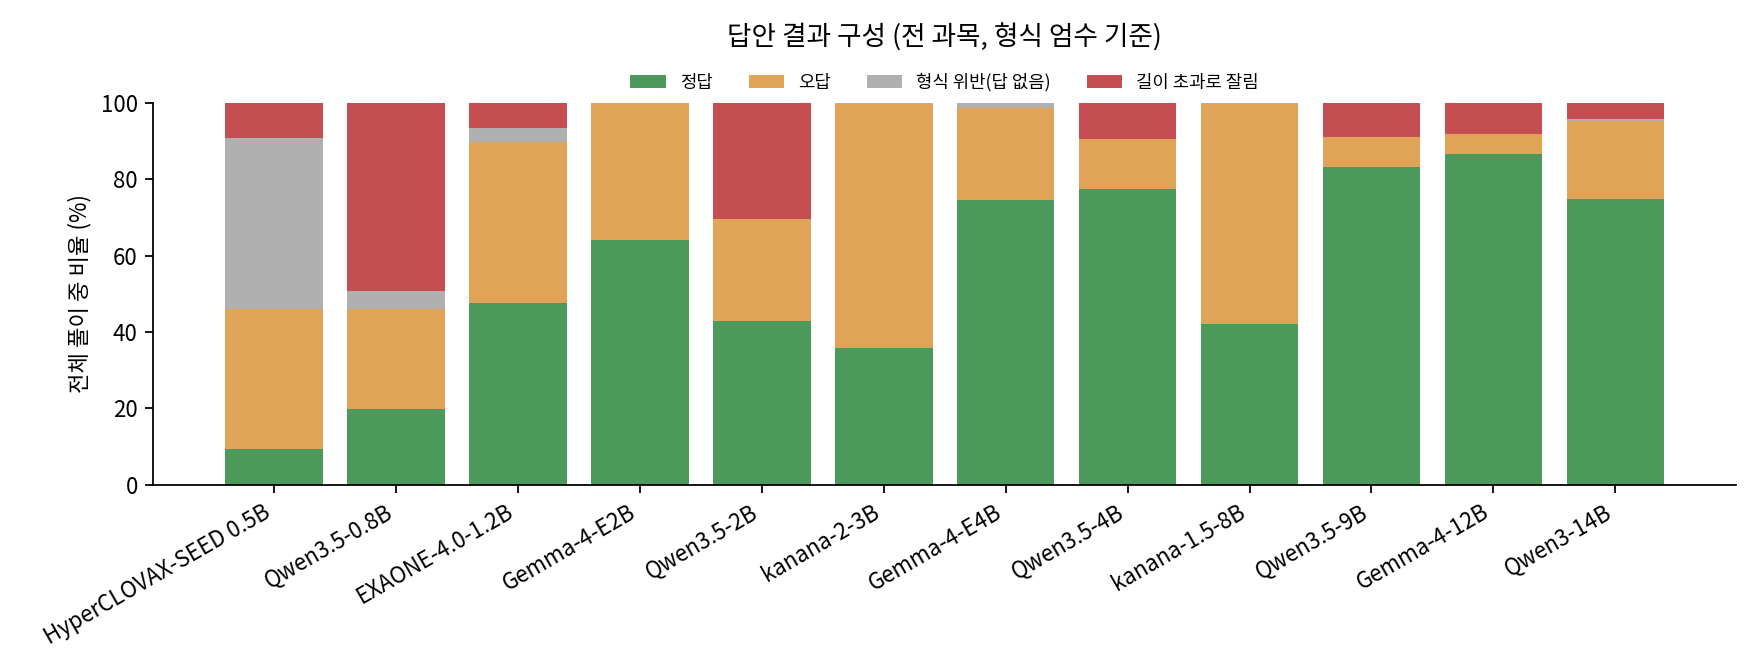
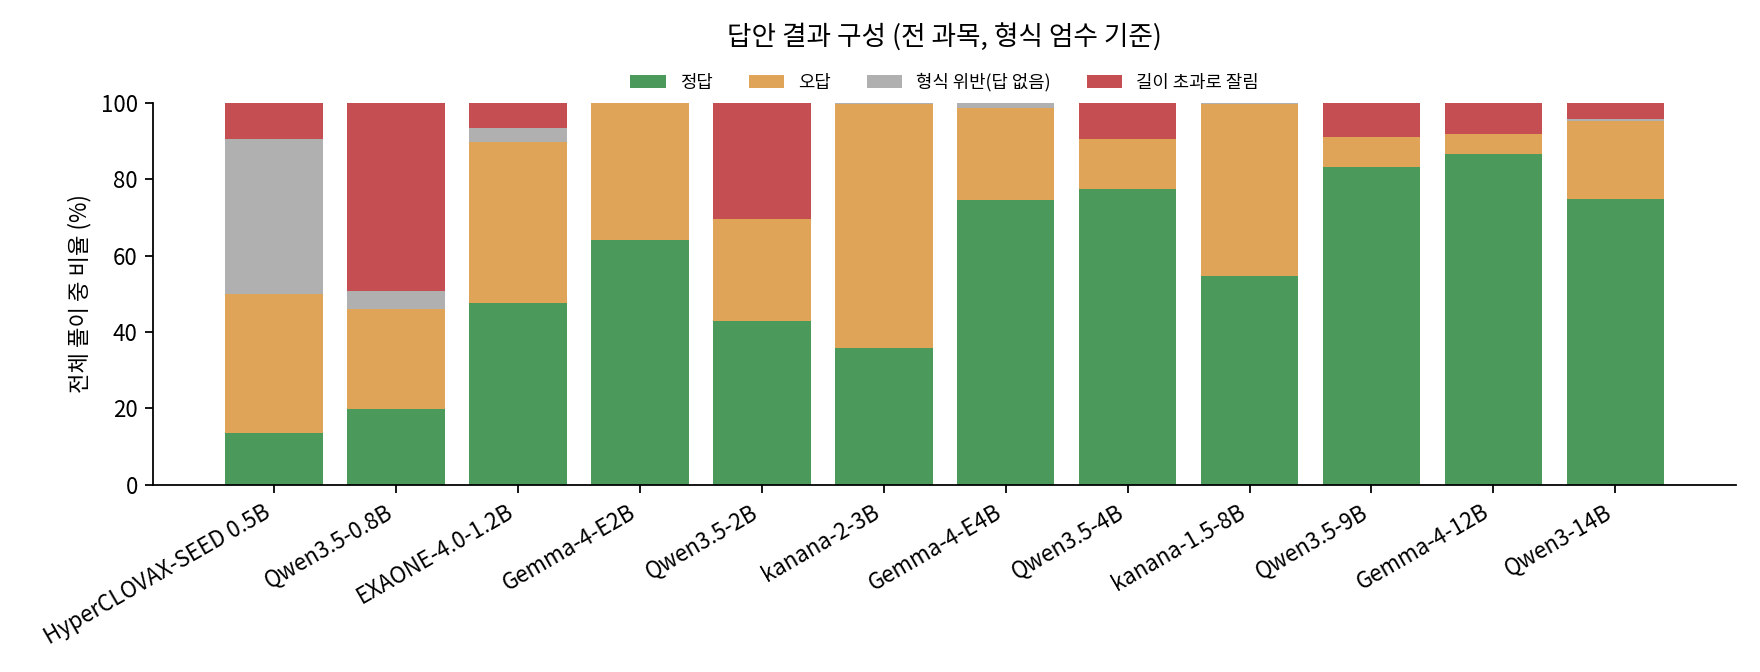
Update results (26 runs)

Changed region(s): [[0.6562, 0.4062, 0.75, 0.5], [0.125, 0.625, 0.1875, 0.6875], [0.125, 0.4375, 0.1875, 0.4688]]

diff --git a/README.md b/README.md
@@ -4,15 +4,15 @@
 
 ![기기 등급별 최고 점수](figures/hero.png)
 
-- **가장 높은 점수**: 국어 **92점**(Gemma-4-12B), 수학 **93점**(Qwen3.5-9B). (100점 만점 원점수, 3회 평균)
+- **가장 높은 점수**: 국어 **92점**(Gemma-4-12B), 수학 **93점**(Qwen3.5-9B), 영어 **83점**(kanana-1.5-8B). (100점 만점 원점수, 3회 평균)
 - **기기별로 보면** 보급형 스마트폰급 모델은 국어 최고 38점·수학 최고 78점, 중급 스마트폰급 모델은 국어 최고 77점·수학 최고 90점, 플래그십 스마트폰급 모델은 국어 최고 88점·수학 최고 93점, 노트북·태블릿급 모델은 국어 최고 92점·수학 최고 93점이다. (아래 표 참고, 메모리 기준 추정)
-- **1B 이하 모델**은 평균 정답률이 24%로, 5지선다를 무작위로 찍었을 때(20%)와 비슷하거나 조금 나은 수준이다. 생각을 끝내지 못하고 길이 제한에 걸리거나, 답을 정해진 형식으로 쓰지 못하는 경우가 많았다.
+- **1B 이하 모델**은 평균 정답률이 26%로, 5지선다를 무작위로 찍었을 때(20%)와 비슷하거나 조금 나은 수준이다. 생각을 끝내지 못하고 길이 제한에 걸리거나, 답을 정해진 형식으로 쓰지 못하는 경우가 많았다.
 - **수학**은 작은 모델도 잘 푼다. 4B 크기의 Gemma-4-E4B가 80점을 넘었다.
 - 시험지 맨 끝의 4점 단답형 고난도 문항(공통 21·22번, 선택 29·30번)은 모델 평균 정답률이 25%, 가장 잘 푼 모델도 67%에 그쳤다.
 - **국어가 수학보다 어렵다.** 2B 이상 모델 기준으로 국어 정답률이 수학보다 평균 13%p 낮다. 2,000–4,000자 길이의 지문을 읽고 선택지 사이의 미묘한 차이를 가려내는 일이 작은 모델에게는 계산보다 어렵다.
-- **국산 모델**: HyperCLOVAX-SEED 0.5B(국어 18점, 수학 19점), EXAONE-4.0-1.2B(국어 31점, 수학 75점), kanana-2-3B(국어 34점, 수학 39점), kanana-1.5-8B(국어 45점, 수학 42점).
+- **국산 모델**: HyperCLOVAX-SEED 0.5B(국어 18점, 수학 19점, 영어 30점), EXAONE-4.0-1.2B(국어 31점, 수학 75점), kanana-2-3B(국어 34점, 수학 39점), kanana-1.5-8B(국어 45점, 수학 42점, 영어 83점).
 
-> 마지막 업데이트: 2026-11-19 16:37 KST. 평가가 진행되는 동안 모델 하나가 끝날 때마다 이 페이지가 자동으로 갱신된다.
+> 마지막 업데이트: 2026-11-19 17:20 KST. 평가가 진행되는 동안 모델 하나가 끝날 때마다 이 페이지가 자동으로 갱신된다.
 
 ## 왜 소형 모델인가
 
@@ -79,20 +79,20 @@
 - 국어 = 공통 34문항(76점) + 화법과 작문 또는 언어와 매체(24점)
 - 수학 = 공통 22문항(74점) + 확률과 통계 / 미적분 / 기하(26점)
 
-| 모델 | 개발사 | 매개변수(B) | 실행 가능 기기 | 국어(화작) | 국어(언매) | 수학(확통) | 수학(미적) | 수학(기하) |
-|---|---|---|---|---|---|---|---|---|
-| HyperCLOVAX-SEED 0.5B | 네이버 | 0.57 | 보급형 스마트폰 | 18.0 <sub>(13–25)</sub> | 18.0 <sub>(16–19)</sub> | 17.5 <sub>(14–21)</sub> | 21.3 <sub>(17–24)</sub> | 18.0 <sub>(15–21)</sub> |
-| Qwen3.5-0.8B | 알리바바 | 0.8 | 보급형 스마트폰 | 24.4 <sub>(18–32)</sub> | 22.9 <sub>(20–28)</sub> | 36.5 <sub>(35–39)</sub> | 36.3 <sub>(33–39)</sub> | 33.5 <sub>(31–36)</sub> |
-| EXAONE-4.0-1.2B | LG AI연구원 | 1.28 | 보급형 스마트폰 | 31.2 <sub>(28–35)</sub> | 31.5 <sub>(27–35)</sub> | 77.6 <sub>(70–82)</sub> | 72.9 <sub>(63–82)</sub> | 73.5 <sub>(71–78)</sub> |
-| Gemma-4-E2B | 구글 | 2.0 | 중급 스마트폰 | 67.9 <sub>(64–71)</sub> | 61.2 <sub>(59–63)</sub> | 75.0 <sub>(72–80)</sub> | 73.0 <sub>(69–77)</sub> | 76.3 <sub>(76–77)</sub> |
-| Qwen3.5-2B | 알리바바 | 2.0 | 보급형 스마트폰 | 33.6 <sub>(31–36)</sub> | 37.7 <sub>(34–42)</sub> | 64.7 <sub>(63–66)</sub> | 59.9 <sub>(56–65)</sub> | 62.1 <sub>(61–63)</sub> |
-| kanana-2-3B | 카카오 | 3.0 | 중급 스마트폰 | 32.5 <sub>(30–34)</sub> | 36.0 <sub>(29–40)</sub> | 42.6 <sub>(29–54)</sub> | 38.9 <sub>(28–51)</sub> | 36.3 <sub>(25–49)</sub> |
-| Gemma-4-E4B | 구글 | 4.0 | 중급 스마트폰 | 77.2 <sub>(69–83)</sub> | 73.3 <sub>(67–77)</sub> | 82.7 <sub>(80–84)</sub> | 79.3 <sub>(77–81)</sub> | 88.0 <sub>(84–92)</sub> |
-| Qwen3.5-4B | 알리바바 | 4.0 | 중급 스마트폰 | 75.0 <sub>(71–81)</sub> | 70.7 <sub>(68–72)</sub> | 88.8 <sub>(86–92)</sub> | 85.9 <sub>(82–88)</sub> | 90.5 <sub>(82–96)</sub> |
-| kanana-1.5-8B | 카카오 | 8.0 | 플래그십 스마트폰 | 44.7 <sub>(40–48)</sub> | 45.3 <sub>(44–47)</sub> | 43.0 <sub>(37–49)</sub> | 42.0 <sub>(40–46)</sub> | 41.0 <sub>(34–46)</sub> |
-| Qwen3.5-9B | 알리바바 | 9.0 | 플래그십 스마트폰 | 87.7 <sub>(87–88)</sub> | 79.0 <sub>(76–81)</sub> | 90.4 <sub>(89–93)</sub> | 86.7 <sub>(82–92)</sub> | 92.8 <sub>(90–96)</sub> |
-| Gemma-4-12B | 구글 | 12.0 | 노트북·태블릿 | 91.7 <sub>(88–95)</sub> | 86.2 <sub>(78–93)</sub> | 88.5 <sub>(86–90)</sub> | 81.6 <sub>(82–82)</sub> | 88.5 <sub>(86–90)</sub> |
-| Qwen3-14B | 알리바바 | 14.8 | 노트북·태블릿 | 72.0 <sub>(68–77)</sub> | 64.7 <sub>(64–66)</sub> | 91.7 <sub>(90–96)</sub> | 87.2 <sub>(85–89)</sub> | 92.8 <sub>(93–93)</sub> |
+| 모델 | 개발사 | 매개변수(B) | 실행 가능 기기 | 국어(화작) | 국어(언매) | 수학(확통) | 수학(미적) | 수학(기하) | 영어 |
+|---|---|---|---|---|---|---|---|---|---|
+| HyperCLOVAX-SEED 0.5B | 네이버 | 0.57 | 보급형 스마트폰 | 18.0 <sub>(13–25)</sub> | 18.0 <sub>(16–19)</sub> | 17.5 <sub>(14–21)</sub> | 21.3 <sub>(17–24)</sub> | 18.0 <sub>(15–21)</sub> | 29.9 <sub>(28–34)</sub> |
+| Qwen3.5-0.8B | 알리바바 | 0.8 | 보급형 스마트폰 | 24.4 <sub>(18–32)</sub> | 22.9 <sub>(20–28)</sub> | 36.5 <sub>(35–39)</sub> | 36.3 <sub>(33–39)</sub> | 33.5 <sub>(31–36)</sub> | — |
+| EXAONE-4.0-1.2B | LG AI연구원 | 1.28 | 보급형 스마트폰 | 31.2 <sub>(28–35)</sub> | 31.5 <sub>(27–35)</sub> | 77.6 <sub>(70–82)</sub> | 72.9 <sub>(63–82)</sub> | 73.5 <sub>(71–78)</sub> | — |
+| Gemma-4-E2B | 구글 | 2.0 | 중급 스마트폰 | 67.9 <sub>(64–71)</sub> | 61.2 <sub>(59–63)</sub> | 75.0 <sub>(72–80)</sub> | 73.0 <sub>(69–77)</sub> | 76.3 <sub>(76–77)</sub> | — |
+| Qwen3.5-2B | 알리바바 | 2.0 | 보급형 스마트폰 | 33.6 <sub>(31–36)</sub> | 37.7 <sub>(34–42)</sub> | 64.7 <sub>(63–66)</sub> | 59.9 <sub>(56–65)</sub> | 62.1 <sub>(61–63)</sub> | — |
+| kanana-2-3B | 카카오 | 3.0 | 중급 스마트폰 | 32.5 <sub>(30–34)</sub> | 36.0 <sub>(29–40)</sub> | 42.6 <sub>(29–54)</sub> | 38.9 <sub>(28–51)</sub> | 36.3 <sub>(25–49)</sub> | — |
+| Gemma-4-E4B | 구글 | 4.0 | 중급 스마트폰 | 77.2 <sub>(69–83)</sub> | 73.3 <sub>(67–77)</sub> | 82.7 <sub>(80–84)</sub> | 79.3 <sub>(77–81)</sub> | 88.0 <sub>(84–92)</sub> | — |
+| Qwen3.5-4B | 알리바바 | 4.0 | 중급 스마트폰 | 75.0 <sub>(71–81)</sub> | 70.7 <sub>(68–72)</sub> | 88.8 <sub>(86–92)</sub> | 85.9 <sub>(82–88)</sub> | 90.5 <sub>(82–96)</sub> | — |
+| kanana-1.5-8B | 카카오 | 8.0 | 플래그십 스마트폰 | 44.7 <sub>(40–48)</sub> | 45.3 <sub>(44–47)</sub> | 43.0 <sub>(37–49)</sub> | 42.0 <sub>(40–46)</sub> | 41.0 <sub>(34–46)</sub> | 82.7 <sub>(77–89)</sub> |
+| Qwen3.5-9B | 알리바바 | 9.0 | 플래그십 스마트폰 | 87.7 <sub>(87–88)</sub> | 79.0 <sub>(76–81)</sub> | 90.4 <sub>(89–93)</sub> | 86.7 <sub>(82–92)</sub> | 92.8 <sub>(90–96)</sub> | — |
+| Gemma-4-12B | 구글 | 12.0 | 노트북·태블릿 | 91.7 <sub>(88–95)</sub> | 86.2 <sub>(78–93)</sub> | 88.5 <sub>(86–90)</sub> | 81.6 <sub>(82–82)</sub> | 88.5 <sub>(86–90)</sub> | — |
+| Qwen3-14B | 알리바바 | 14.8 | 노트북·태블릿 | 72.0 <sub>(68–77)</sub> | 64.7 <sub>(64–66)</sub> | 91.7 <sub>(90–96)</sub> | 87.2 <sub>(85–89)</sub> | 92.8 <sub>(93–93)</sub> | — |
 
 **영역별 원점수**
 
@@ -106,6 +106,10 @@
 
 ![수학: 크기 vs 점수](figures/scaling_math.png)
 
+**영어: 크기 vs 점수**
+
+![영어: 크기 vs 점수](figures/scaling_english.png)
+
 **국어: 문항별 정답률**
 
 ![국어: 문항별 정답률](figures/heatmap_korean.png)
@@ -113,6 +117,10 @@
 **수학: 문항별 정답률**
 
 ![수학: 문항별 정답률](figures/heatmap_math.png)
+
+**영어: 문항별 정답률**
+
+![영어: 문항별 정답률](figures/heatmap_english.png)
 
 ### 채점 보조 지표
 
@@ -123,7 +131,7 @@
 
 | 모델 | 국어 정제 후 / 형식 엄수 / 형식 위반 / 잘림 / 평균 토큰 | 수학 정제 후 / 형식 엄수 / 형식 위반 / 잘림 / 평균 토큰 | 영어 정제 후 / 형식 엄수 / 형식 위반 / 잘림 / 평균 토큰 |
 |---|---|---|---|
-| HyperCLOVAX-SEED 0.5B | 0.18 / 0.09 / 0.50 / 0.10 / 946 | 0.20 / 0.10 / 0.59 / 0.09 / 1165 | — |
+| HyperCLOVAX-SEED 0.5B | 0.18 / 0.09 / 0.50 / 0.10 / 946 | 0.20 / 0.10 / 0.59 / 0.09 / 1165 | 0.31 / 0.23 / 0.41 / 0.10 / 1116 |
 | Qwen3.5-0.8B | 0.23 / 0.14 / 0.46 / 0.46 / 12622 | 0.37 / 0.28 / 0.59 / 0.54 / 13733 | — |
 | EXAONE-4.0-1.2B | 0.30 / 0.29 / 0.04 / 0.01 / 1520 | 0.72 / 0.70 / 0.18 / 0.14 / 6924 | — |
 | Gemma-4-E2B | 0.59 / 0.58 / 0.00 / 0.00 / 1897 | 0.71 / 0.71 / 0.00 / 0.00 / 3471 | — |
@@ -131,7 +139,7 @@
 | kanana-2-3B | 0.34 / 0.33 / 0.00 / 0.00 / 176 | 0.39 / 0.39 / 0.01 / 0.00 / 596 | — |
 | Gemma-4-E4B | 0.70 / 0.69 / 0.02 / 0.00 / 1955 | 0.81 / 0.81 / 0.01 / 0.00 / 3955 | — |
 | Qwen3.5-4B | 0.70 / 0.70 / 0.04 / 0.07 / 8813 | 0.88 / 0.87 / 0.12 / 0.12 / 7250 | — |
-| kanana-1.5-8B | 0.42 / 0.42 / 0.00 / 0.00 / 343 | 0.43 / 0.43 / 0.01 / 0.00 / 857 | — |
+| kanana-1.5-8B | 0.42 / 0.42 / 0.00 / 0.00 / 343 | 0.43 / 0.43 / 0.01 / 0.00 / 857 | 0.83 / 0.83 / 0.00 / 0.00 / 217 |
 | Qwen3.5-9B | 0.80 / 0.79 / 0.07 / 0.07 / 7616 | 0.90 / 0.89 / 0.11 / 0.11 / 7024 | — |
 | Gemma-4-12B | 0.86 / 0.86 / 0.05 / 0.05 / 5240 | 0.89 / 0.88 / 0.12 / 0.12 / 6271 | — |
 | Qwen3-14B | 0.62 / 0.62 / 0.00 / 0.00 / 1395 | 0.91 / 0.90 / 0.10 / 0.09 / 4721 | — |
